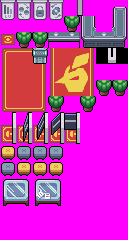
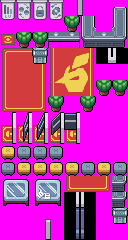
add rest room map

Changed region(s): [[0.5, 0.6708, 1.0, 1.0], [0.3438, 0.9042, 0.4062, 1.0]]

diff --git a/include/constants/metatile_labels.h b/include/constants/metatile_labels.h
@@ -913,8 +913,10 @@
 #define METATILE_hall_of_fame_SCREEN_WAH_6        0x25D
 
 // gTileset_lobby
-#define METATILE_lobby_PC_OFF  0x211
-#define METATILE_lobby_PC_ON   0x212
+#define METATILE_lobby_PC_OFF           0x211
+#define METATILE_lobby_PC_ON            0x212
+#define METATILE_lobby_PC_RESTROOM_OFF  0x267
+#define METATILE_lobby_PC_RESTROOM_ON   0x25F
 
 // gTileset_room_aguiar
 #define METATILE_room_aguiar_TV_OFF_LEFT   0x205
